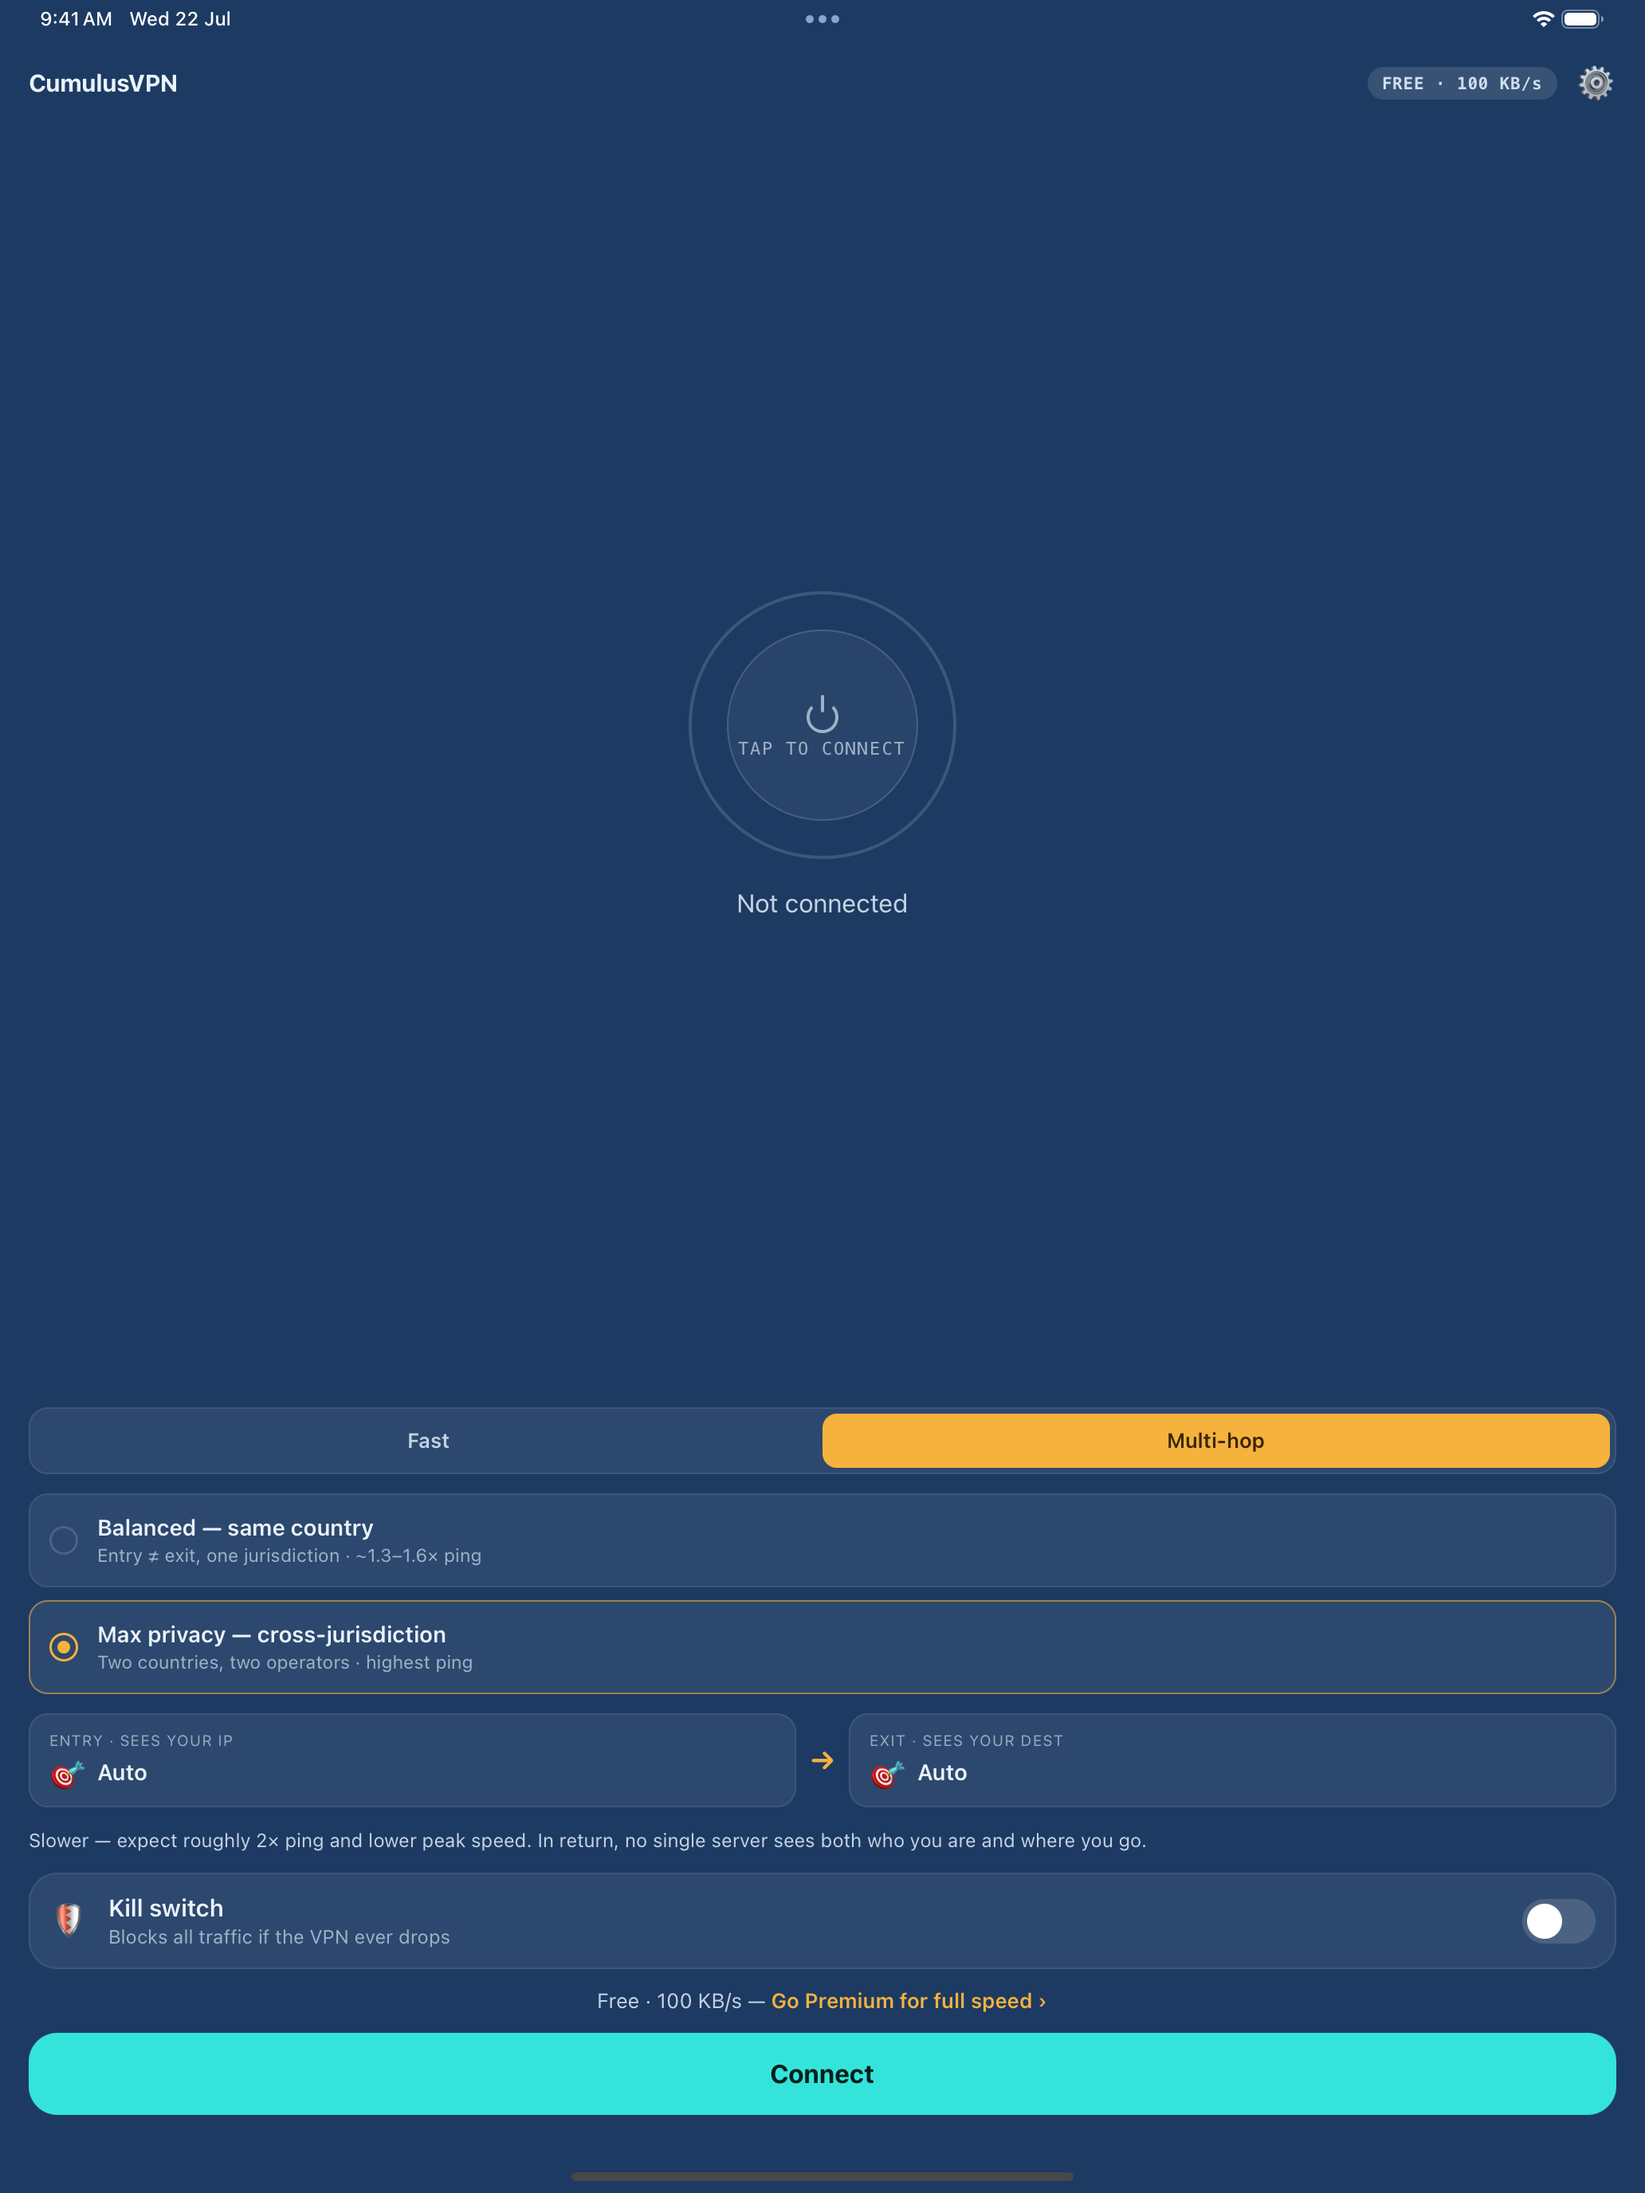
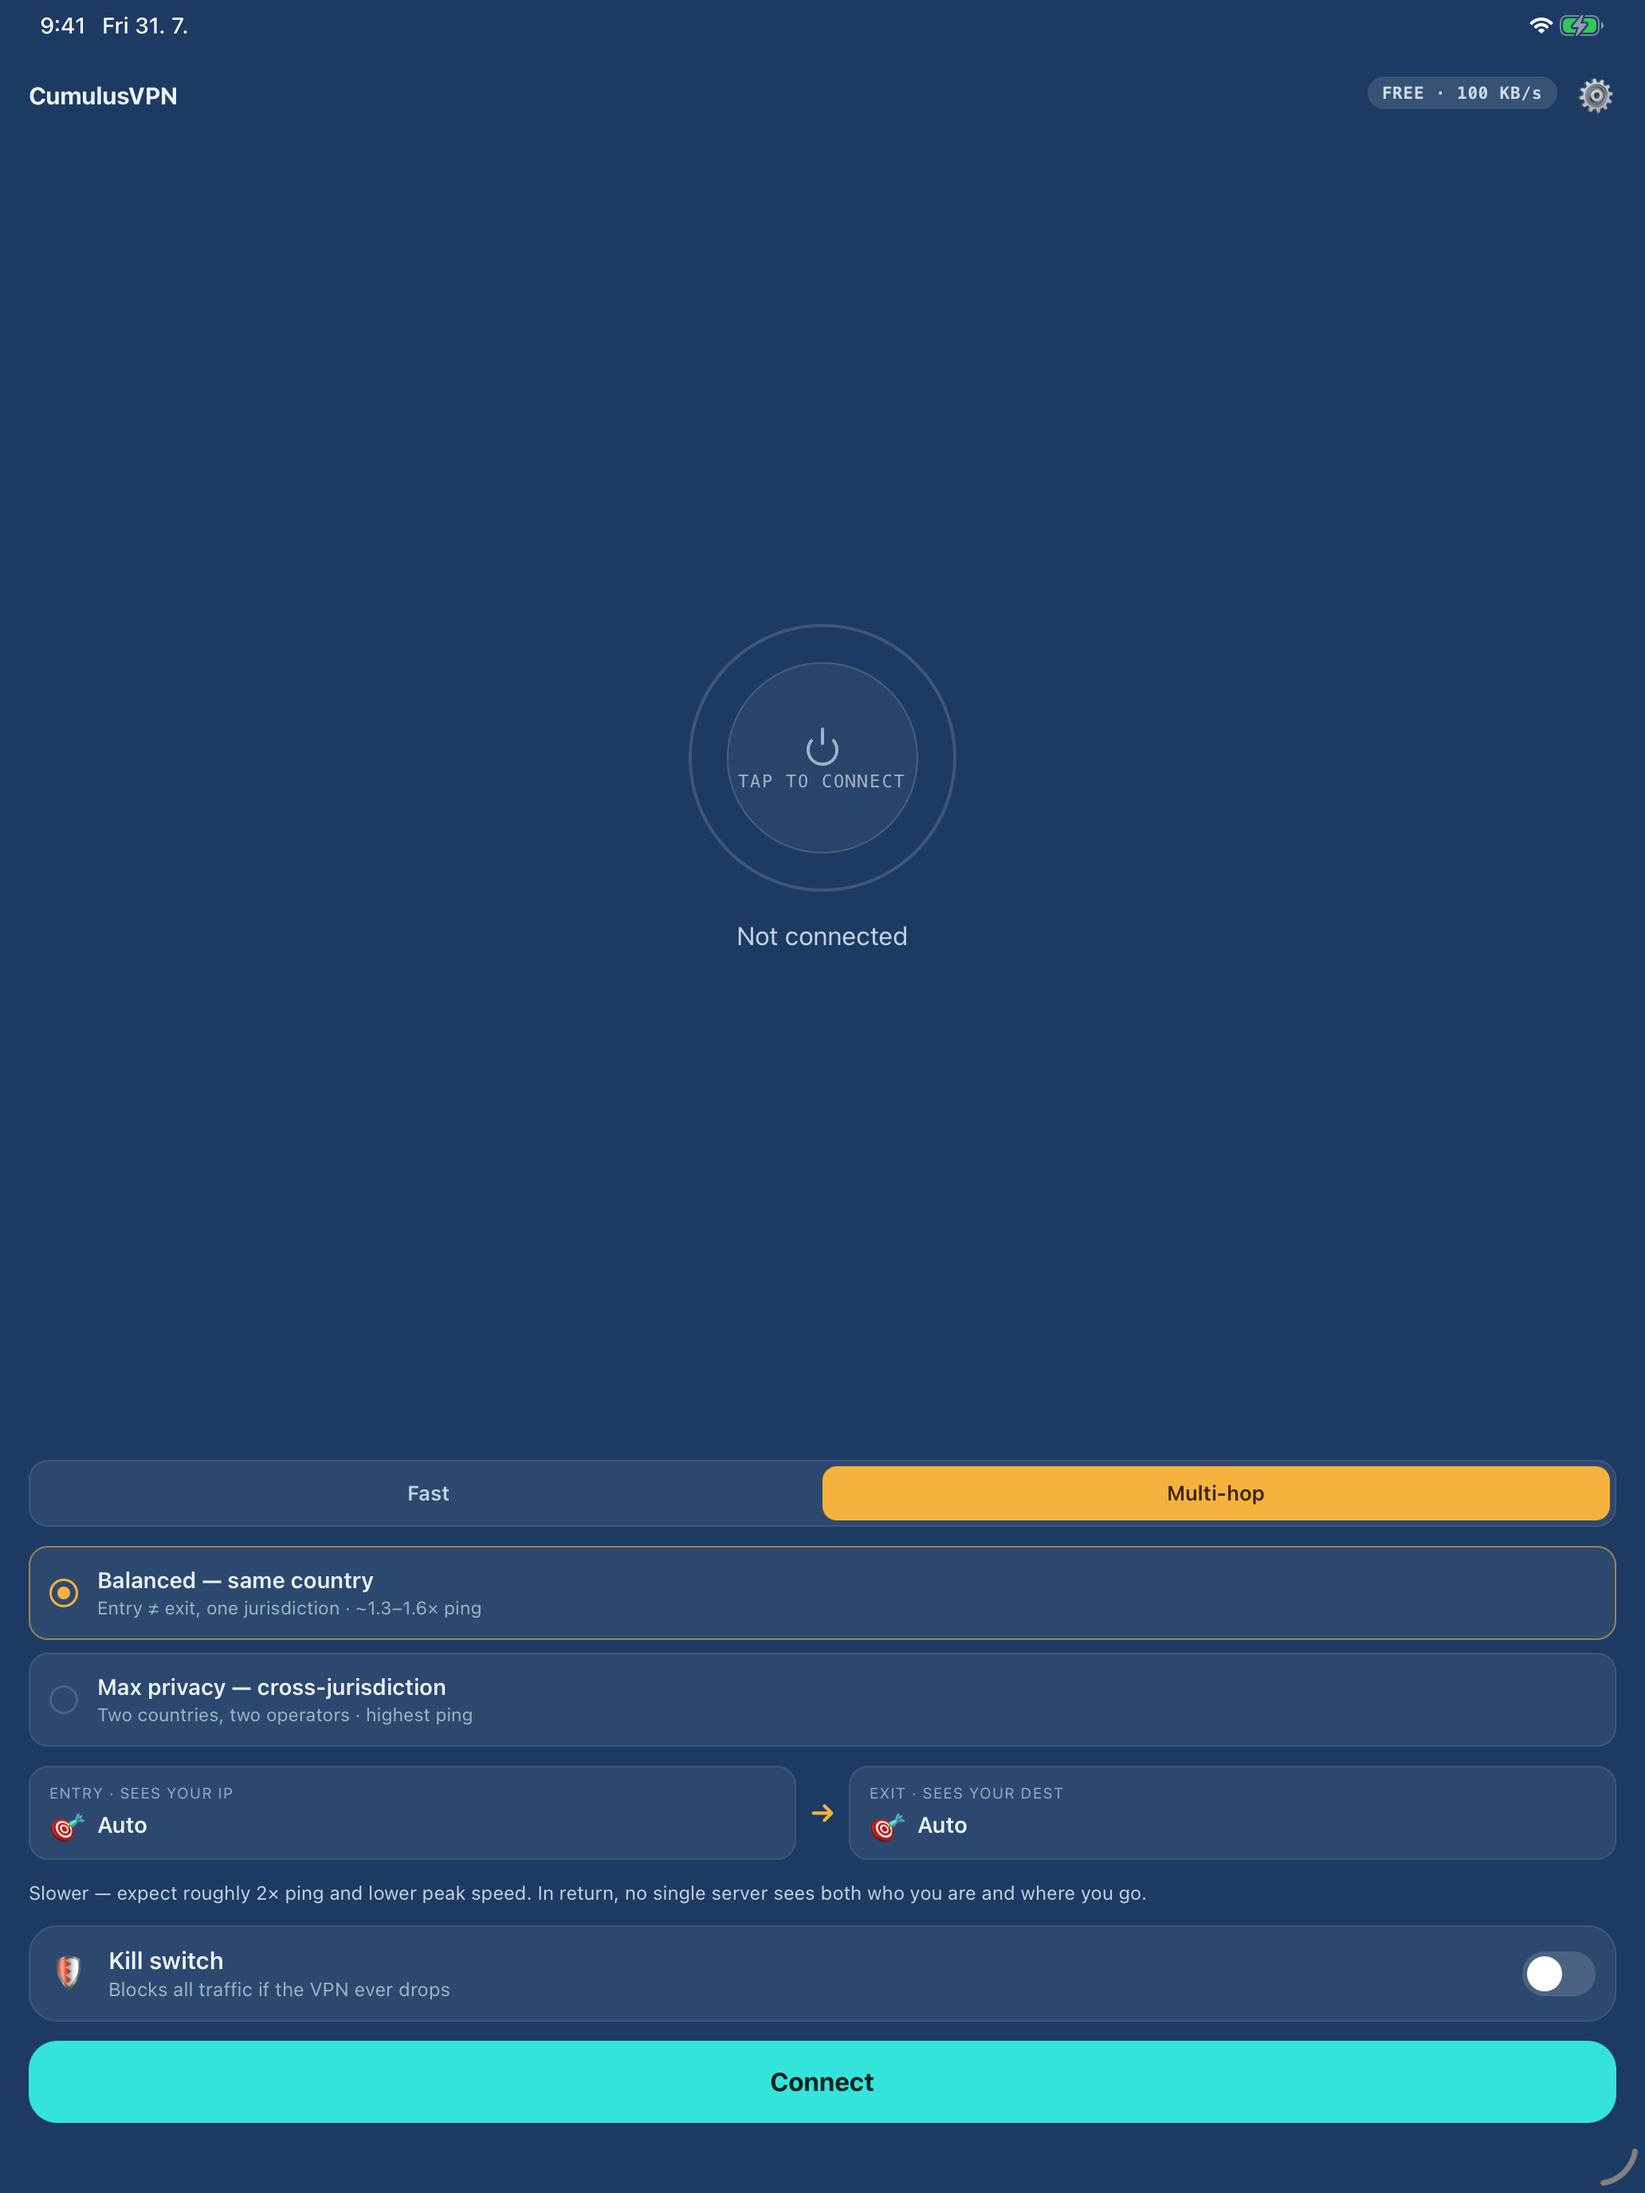
update images

diff --git a/store/assets/screenshots/ios/ipad-13/README.md b/store/assets/screenshots/ios/ipad-13/README.md
@@ -18,22 +18,38 @@ compositor and re-run against the raws.
 
 ## Frames
 
-Re-captured 2026-07-30 from a Release build on the **iPad Pro 13-inch (M4) /
-iOS 26.5 Simulator** after the 1.0.2 (15) rejection: the app no longer shows
-any purchase UI (no upsell line, no "tap to upgrade"), and the old `03-tier`
-frame was replaced by the privacy disclosure (Apple 2.3.7 counts "free" in
-screenshots as a price reference).
+Re-captured 2026-07-31 from a Release build on the **iPad Pro 13-inch (M4) /
+iOS 26.5 Simulator**, in **screenshot mode** (`CVPN_SCREENSHOT=1`, see
+`clients/mobile/src/lib/screenshot.ts`). The app shows no purchase UI anywhere,
+following the 1.0.2 (15) rejection.
 
 | File | Screen |
 |------|--------|
-| `01-connect.png`   | Connect — disconnected, nearest gateway |
-| `02-countries.png` | Choose location — country list with live latency |
-| `03-privacy.png`   | "Before you connect" data disclosure |
+| `01-connect.png`   | Connect — **connected**, Germany, session stats |
+| `02-countries.png` | Choose location — country list with quality ratings |
+| `03-tier.png`      | Settings — plan status, kill switch, Stealth mode |
 | `04-multihop.png`  | Connect — multi-hop route-style selector |
 
-Same disconnected-hero caveat as iPhone: packet-tunnel extensions do not run on
-the Simulator, so `01-connect` is the "TAP TO CONNECT" state, not an active
-session. Truthful and uploadable; a connected frame would need a physical iPad.
+`01-connect` is a live connected hero now. Packet-tunnel extensions still do not
+run on the Simulator; screenshot mode supplies the session, and the latency
+figures are those a client near each node measures rather than whatever the
+capture machine happened to see. The constraints that data has to satisfy are
+documented in `screenshot.ts` — the short version is representative-not-invented
+numbers, throughput under the free tier's own 100 KB/s cap, and no fabricated
+features. `yarn verify:no-demo-data` proves none of it ships.
+
+`03-tier` is the Settings screen, restored in place of the privacy-disclosure
+frame that briefly held slot 3. This does not re-open the 2.3.7 finding: Apple
+cited the **overlay copy** the iPhone set puts on this frame ("FREE TIER / Free
+to use…"), not the screen. The iPad set is unframed and carries no overlay copy
+at all, so there is nothing here for 2.3.7 to attach to.
+
+### Known cosmetic artifact
+
+Every one of these captures — including the 2026-07-22 and 07-30 sets before it
+— has a faint grey arc in the bottom-right corner, an artifact of `simctl io`
+on the iPad simulator rather than anything the app draws. Small, in the corner,
+and previously uploaded as-is. Retouch it out if it ever bothers review.
 
 ## Build note
 
